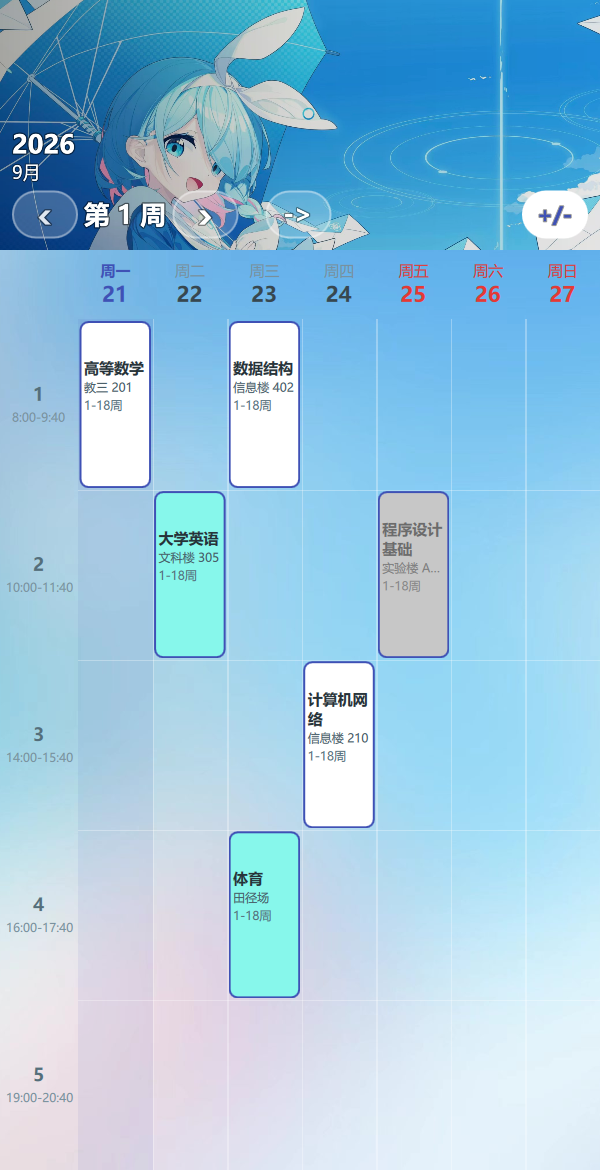
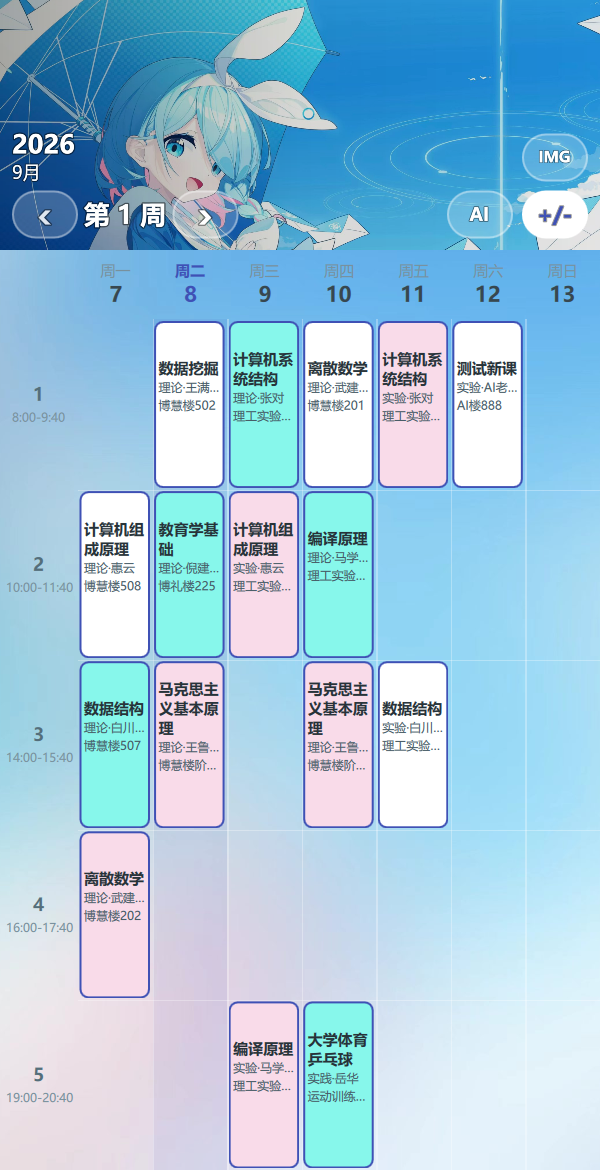
进场自动停在今天的周 + 截图更新
- CalendarData::currentWeek() 算出今天是第几周
- Main.qml 启动 / 改开学日期 / 导入课表后都重新落到本周
- 顺手更新 shots/ 下的界面截图

diff --git a/qml/Main.qml b/qml/Main.qml
@@ -55,6 +55,15 @@ ApplicationWindow {
         // 手机上别锁桌面的 400×780，让它自己撑满屏幕
         if (Qt.platform.os === "android")
             root.showMaximized()
+
+        // 一进来就停在「今天所在的周」—— 不用自己从第 1 周滑过来
+        root.gotoCurrentWeek()
+    }
+
+    // 停在今天那一周（周次夹在 1..总周数 之间）
+    function gotoCurrentWeek() {
+        root.currentWeek = Math.max(1, Math.min(calendarData.currentWeek(),
+                                                root.totalWeeks))
     }
 
     onShowChatChanged: {
@@ -69,7 +78,11 @@ ApplicationWindow {
 
     Connections {
         target: calendarData
-        function onFirstMondayChanged() { root.dateRevision++ }
+        function onFirstMondayChanged() {
+            root.dateRevision++
+            // 开学日期变了，之前停的周次就不对了，重新落到本周
+            root.gotoCurrentWeek()
+        }
     }
 
     component NavButton: Rectangle {
@@ -615,8 +628,11 @@ ApplicationWindow {
 
         function onFinished(ok) {
             // 学期一共多少周，按导进来的课自动定
-            if (ok && courseImporter.lastMaxWeek > 0)
+            if (ok && courseImporter.lastMaxWeek > 0) {
                 root.totalWeeks = courseImporter.lastMaxWeek
+                // 总周数定了，重新落到今天那一周
+                root.gotoCurrentWeek()
+            }
 
             // 导成了不打扰 —— 课表变了本身就是反馈。只有没导成才需要说一句。
             if (!ok)

diff --git a/src/calendardata.h b/src/calendardata.h
@@ -27,6 +27,10 @@ public:
     // 给人看的一句话：这次节假日是从哪来的、捞到几条
     QString deviceCalendarNote() const { return m_deviceCalendarNote; }
 
+    // 今天是第几周（按 firstMonday 算）。一进 app 就跳到这里，
+    // 省得每次都要自己从第 1 周滑过来。firstMonday 没设时返回 1
+    Q_INVOKABLE int currentWeek() const;
+
     // 一次把某格需要的日期信息都取回来（QML 一次调用就够）
     Q_INVOKABLE QVariantMap dayInfo(int week, int day) const;
 

diff --git a/src/calendardata.cpp b/src/calendardata.cpp
@@ -80,6 +80,13 @@ void CalendarData::setFirstMonday(const QDate &date)
     emit firstMondayChanged();
 }
 
+int CalendarData::currentWeek() const
+{
+    if (!m_firstMonday.isValid())
+        return 1;
+    return qMax(1, m_firstMonday.daysTo(QDate::currentDate()) / 7 + 1);
+}
+
 QVariantMap CalendarData::dayInfo(int week, int day) const
 {
     const QDate date = m_firstMonday.addDays((week - 1) * 7 + (day - 1));
